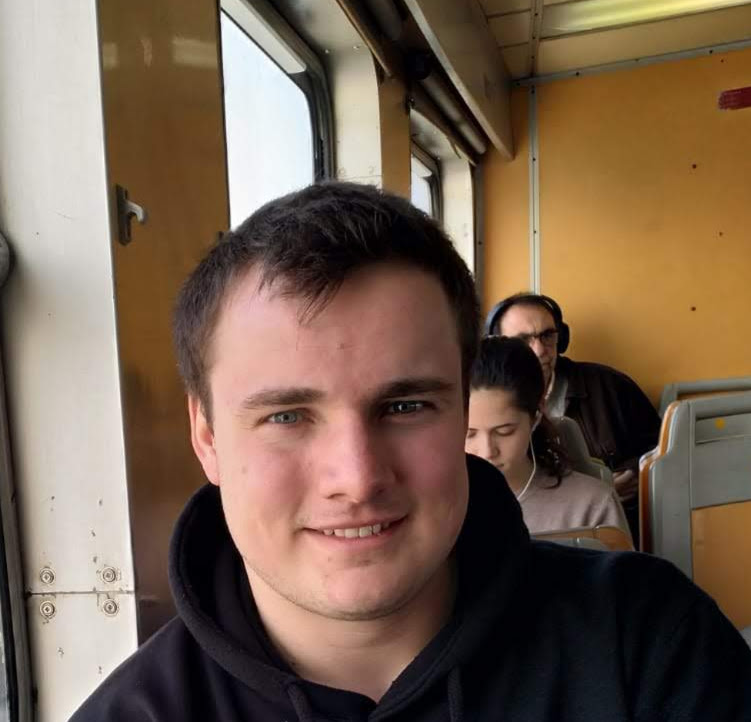
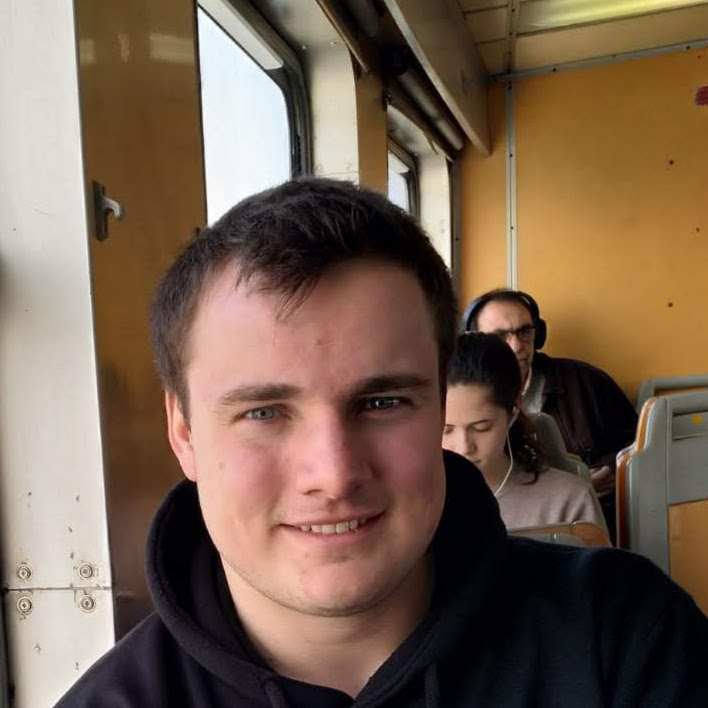
Minor fixes (#29)
* adds dylan

* update user interface section

* upload profile pics

* adds second video

* adds user testing section

diff --git a/client/src/components/pages/system/sections/user-interface/user-interface.tsx b/client/src/components/pages/system/sections/user-interface/user-interface.tsx
@@ -1,4 +1,6 @@
 import React from 'react';
+import stateColourTable from '../../../../../images/state-colour-table.png';
+import { CenteredFigure } from '../../../../atoms/centered-figure';
 
 export const UserInterfaceSection: React.FC = () => {
     return (
@@ -7,33 +9,47 @@ export const UserInterfaceSection: React.FC = () => {
             <p>
                 Creating a suitable and effective User Interface for the Omni-Opener was very important to us to ensure
                 the product is as accessible as possible. We put a focus on detailing our target user using target user
-                and medical research
+                and medical research. Our basic profile is a user who struggles to open jars but still has the ability
+                or need to open them for cooking, use, etc. The range of products this targets includes not only food
+                items but also personal care. There are a range of reasons why the user may struggle with these items,
+                including neuropathy, limited movement in the upper body, limited dexterity, and tremor. Some conditions
+                we have identified in our research are MS, old age, stroke, essential tremor (e.g. Parkinson&aspos;s),
+                and arthritis.
             </p>
             <p>
-                One of our main focuses was on detailing our target user. Our basic profile is a user who struggles to
-                open jars but still has the ability or need to open them for cooking, use, etc. The range of products
-                this targets includes not only food items but also personal care. There are a range of reasons why the
-                user may struggle with these items, including: neuropathy, limited movement in upper body, limited
-                dexterity, and tremor. Some conditions we have identified in our research are MS, old age, stroke,
-                essential tremor (e.g. Parkinson&apos;s), and arthritis.
+                In some medical research via interviewing a physiotherapist and her colleagues, we identified that there
+                are also many knock-on effects of conditions that affect dexterity and mobility, including sight issues,
+                related to e.g. stroke. We designed the Omni-Opener to have a user interface that tried to take into
+                account as many issues as we could.
             </p>
             <p>
-                One thing we discussed was the design of safety doors in the system. These will be attached within the
-                frame, with one open-able to allow the user to place the jar inside and remove it. We will implement the
-                system so that detection and opening will not begin until the door is shut, to avoid the scenario where
-                a user gets their hand caught in any gripping or moving mechanism. We discussed whether the door should
-                be implemented with a hinge or as a sliding door. We believe the hinge would be more accessible as it
-                does not require much strength, dexterity, or coordination as a sliding door might. This design also
-                minimises the states of the door and there are less risks such as the door getting stuck halfway.
+                Some of the main design decisions we have made include safety walls, a see-through push door on hinges,
+                a reset button, and an LED system-state identification system.
             </p>
             <p>
-                We also discussed including a reset button - this could be initiated by the user if something goes
-                wrong, and would be hardwired into the system. In response to some feedback from experts, we have also
-                been re-considering our decisions about system state lights. We had initially considered blue and red
-                lights to help combat colour blindness however we were informed that placing can be more important for
-                users, with a traffic light style colour scheme and layout. We have also considered adding some text to
-                explain what each light means to help this issue further.
+                The safety walls are attached within the frame, with one open-able to allow the user to place the jar
+                inside and remove it. Software has been implemented in the system so that detection and opening will not
+                begin until the door is shut, to avoid the scenario where a user gets their hand caught in any gripping
+                or moving mechanism. We discussed whether the door should be implemented with a hinge or as a sliding
+                door. We felt the hinge design is more accessible as it does not require much strength, dexterity, or
+                coordination as a sliding door might. This design also minimises the states of the door and there are
+                fewer risks such as the door getting stuck halfway.
             </p>
+            <p>
+                In the system we have also included a reset button - this can be initiated by the user if something goes
+                wrong, and is hardwired into the system. In our user guide we have detailed when this reset button is to
+                be used - in case of emergency or anything going wrong, and also generally to troubleshoot issues such
+                as the system not recognising if there is an object inside.
+            </p>
+            <p>
+                Finally, we have implemented an LED system-state identifier on the front of the system. These lights
+                have colours indicated what state the system is in and whether the user should interact with it or not.
+                We had initially considered using blue and red lights to help combat red/green colour blindness,
+                however, we were informed by our course experts that placement, and labels, can be far more useful to
+                users. As a result, we have three lights, in the main colours of red, orange, and green - like a traffic
+                light system, which is easily identifiable. The lights and what each means are detailed in this table:
+            </p>
+            <CenteredFigure src={stateColourTable} alt="State Colour Table" styles={{ width: '90%' }} />
         </>
     );
 };

diff --git a/client/src/components/pages/evaluation/sections/user-tests/user-tests.tsx b/client/src/components/pages/evaluation/sections/user-tests/user-tests.tsx
@@ -1,0 +1,65 @@
+import React from 'react';
+
+export const UserTestsSection: React.FC = () => {
+    return (
+        <>
+            <h2>User Tests</h2>
+            <p>
+                Since the target user of this product is someone that faces physical or neurological barriers to opening
+                jars and bottles, user consideration was treated as central to the user interface design at all stages.
+                Due to the nature of the project, the team were unable to directly perform user testing with the target
+                demographic, therefore creativity was required in order to ensure that the product is truly accessible
+                for the people that need it.
+            </p>
+            <p>
+                Several methods were used in order to establish and test user needs. This allowed for a layered approach
+                to user testing, roughly mimicking the user centred design framework.
+            </p>
+            <p>
+                The first stage was to discuss the requirements of the user. After brief discussion within the team, an
+                informal conversation took place between team members and medical professionals (friends of a team
+                member). Evaluation of these informal interviews aided the team in narrowing down the target user set,
+                establishing likely use cases, and directing research on conventions for similar products. Following
+                convention in accessible technology was prioritised in order to maximise consistency, allowing users to
+                learn to use the product from a familiar scenario.
+            </p>
+            <p>
+                To supplement this, a survey was designed to be distributed online. Unfortunately due to unexpected
+                circumstances, this could not be completed with users, however researching to design the questionnaire
+                raised useful discussion of potential pitfalls of the design.
+            </p>
+            <p>
+                With this information, the team was able to progress and independently research user needs. This was
+                done by consulting various medical policies and following up with the physiotherapists to check for gaps
+                in medical knowledge.
+            </p>
+            <p>
+                After this stage, the team turned to the task of evaluating frustration of the user and subsequently
+                minimising it. Due to circumstances, the team was restricted to conducting open interviews with other
+                members of the team. Luckily, since many of the team had not yet seen the traffic light design, they
+                were still able to provide authentic responses. In terms of usability goals, the team prioritised safety
+                and ease of use. Thus, simplicity of the interaction was treated to be of paramount importance
+                throughout evaluation.
+            </p>
+            <p>
+                A reset button is used to allow the user to safely return to a known state (idle) from any other state.
+                The reset button was found to have a fairly obvious meaning to users tested.
+            </p>
+            <p>
+                Traffic lights provide the main method by which users are able to clearly understand the system state
+                sufficiently to inform their actions. By speaking the user’s language, and directing the user’s
+                pre-attentive attention toward the product, this system allows an elegant method to direct the user.
+                Therefore, the evaluative task was to check that the principles of design used had successfully
+                minimised the gulf of execution and evaluation as much as possible.
+            </p>
+            <p>
+                To test this design, team members were presented with a series of traffic light diagrams as they would
+                appear on the system. The interviewee would be prompted to discuss what the light led them to think
+                about the system, and what they as the user should do next. On the whole, feedback indicated that
+                “green” led users to believe that the process was finished and it was safe to collect the jar. Similar
+                discussions and subsequent analysis were performed, leading to the team’s final decisions on traffic
+                light use.
+            </p>
+        </>
+    );
+};

diff --git a/client/src/components/pages/system/sections/competitors/competitors.tsx b/client/src/components/pages/system/sections/competitors/competitors.tsx
@@ -1,5 +1,6 @@
 import React from 'react';
 import omniAccessibility from '../../../../../images/omni-accessibility.png';
+import competitorPricing from '../../../../../images/competitor-pricing.png';
 import sixInOne from '../../../../../images/6in1.png';
 import roboTwist from '../../../../../images/robot-twist.png';
 import multiFunc from '../../../../../images/multi-func.png';
@@ -18,13 +19,17 @@ export const CompetitorsSection: React.FC = () => {
                 that we would be able to avoid as many issues they raise as possible.
             </p>
             <p>
-                In our research, we found ~15 similar products to the Omni-Opener in terms of functionality and aims.
-                There are many more variations on each but we focused on the most similar items. This ranged from small
-                rubber circles intended to reduce grip strength needed to open jars by hand, to manual multi-functional
-                helper tools, to automated jar or can openers. What we found overwhelmingly was that there are rarely
-                solutions to opening on the market currently that are both multi-functional and automated. In fact,
-                hardly any systems are automated to the extent of the Omni-Opener, regardless of functionality.
+                In our research, we found ~15 similar products to the Omni-Opener in terms of functionality and aims. We
+                populated a spreadsheet with these products, and information about them such as their price,
+                functionality, comparison rating to our product, if they were made by a for-profit or not-for-profit
+                manufacturer, their successes and their failures. A snippet of the spreadsheet can be seen here. There
+                are many more variations on each but we focused on the most similar items. This ranged from small rubber
+                circles intended to reduce grip strength needed to open jars by hand, to manual multi-functional helper
+                tools, to automated jar or can openers. What we found overwhelmingly was that there are rarely solutions
+                to opening on the market currently that are both multi-functional and automated. In fact, hardly any
+                systems are automated to the extent of the Omni-Opener, regardless of functionality.
             </p>
+            <CenteredFigure src={competitorPricing} alt="Competitor Pricing" styles={{ width: '80%' }} />
             <p>
                 We have detailed below what we felt were the three most similar solutions to the Omni-Opener: the
                 RoboTwist: an automated jar opener, a ‘6-in-1 Opener’: a multi-functional helper tool to ease the

diff --git a/client/src/components/pages/evaluation/sections/improvement/improvement.tsx b/client/src/components/pages/evaluation/sections/improvement/improvement.tsx
@@ -1,0 +1,38 @@
+import React from 'react';
+
+export const ImprovementSection: React.FC = () => {
+    return (
+        <>
+            <h2>Areas of Improvement</h2>
+
+            <h4>Reliability</h4>
+            <p>
+                As the project grew arms and legs we struggled with reliability, especially with sensors and the
+                Raspberry Pi. We repeatedly had this working one day, only for it not to work the next and be scratching
+                our heads as to why. Firstly, we had to have our Pi replaced twice due to issues which meant we lost a
+                lot of time and work on diagnosis and repairs. Also we would have issues being able to connect to the
+                motors correctly through the SMBus connection provided by the motor board. Things did improve over time
+                and we were able to develop quickly and focus on the product, however this did slow us down in the
+                beginning.
+            </p>
+
+            <h4>Complicated Assemply and Setup</h4>
+            <p>
+                As you can probably imagine the setup of the robot from individual components was quite complicated and
+                difficult to manage. It would take a long time to assemble something as well as to disassemble and
+                reassemble to add new components or to perform repairs. The opener is built with large wooden laser-cut
+                pieces, but uses a lot of small and fragile lego pieces which have to be assembled in a specific way due
+                to the design. However once we had established a good design which was strong and reliable we rarely had
+                to disassemble anything and could focus on building new sections.
+            </p>
+
+            <h4>Changes to the final design</h4>
+            <p>
+                We made some very committed decisions early on which shaped our project going forward. Chief among was
+                to use laser-cut MDF and Lego to build the bulk of the robot. This has great advantages; rapid
+                prototyping and simple design, but does lack some rigidity in the lego, especially in the gears and
+                connecting pieces.
+            </p>
+        </>
+    );
+};

diff --git a/client/src/components/organisms/group-photo/group-photo.tsx b/client/src/components/organisms/group-photo/group-photo.tsx
@@ -2,23 +2,31 @@ import React from 'react';
 import { ProfileCard } from '../../atoms/profile-card';
 import { CardGroup } from 'react-bootstrap';
 import petr from '../../../images/profile/petr.jpg';
+import dylan from '../../../images/profile/dylan.jpg';
+import jd from '../../../images/profile/jd.jpg';
+import han from '../../../images/profile/han.png';
+import bailey from '../../../images/profile/bailey.jpg';
+import adam from '../../../images/profile/adam.jpg';
+import paulis from '../../../images/profile/paulis.jpg';
+import jen from '../../../images/profile/jen.jpg';
+import robyn from '../../../images/profile/robyn.png';
 
 export const GroupPhoto: React.FC = () => {
     return (
         <>
             <CardGroup>
-                <ProfileCard name={'Jiewen Deng'} />
+                <ProfileCard name={'Jiewen Deng'} src={jd} />
                 <ProfileCard name={'Petr Vesely'} src={petr} />
-                <ProfileCard name={'Dylan Thinnes'} />
-                <ProfileCard name={'Bailey Brennan'} />
-                <ProfileCard name={'Han Fengzhi'} />
+                <ProfileCard name={'Dylan Thinnes'} src={dylan} />
+                <ProfileCard name={'Bailey Brennan'} src={bailey} />
+                <ProfileCard name={'Han Fengzhi'} src={han} />
             </CardGroup>
             <CardGroup>
-                <ProfileCard name={'Jen Logan'} />
+                <ProfileCard name={'Jen Logan'} src={jen} />
                 <ProfileCard name={'Nimrod Libman'} />
-                <ProfileCard name={'Adam Masalski'} />
-                <ProfileCard name={'Paulis Barzdins'} />
-                <ProfileCard name={'Robyn Greene'} />
+                <ProfileCard name={'Adam Masalski'} src={adam} />
+                <ProfileCard name={'Paulis Barzdins'} src={paulis} />
+                <ProfileCard name={'Robyn Greene'} src={robyn} />
             </CardGroup>
         </>
     );

diff --git a/client/src/components/pages/evaluation/sections/videos/videos.tsx b/client/src/components/pages/evaluation/sections/videos/videos.tsx
@@ -1,0 +1,27 @@
+import React from 'react';
+
+export const VideosSection: React.FC = () => {
+    return (
+        <>
+            <h2>Videos</h2>
+            <div className="text-center" style={{ display: 'flex', padding: '10px' }}>
+                <iframe
+                    width="560"
+                    height="315"
+                    src="https://www.youtube.com/embed/779Nh1gHEP4"
+                    frameBorder="0"
+                    allow="accelerometer; autoplay; encrypted-media; gyroscope; picture-in-picture"
+                    allowFullScreen
+                />
+                <iframe
+                    width="560"
+                    height="315"
+                    src="https://www.youtube.com/embed/rmhJTBzYY3U"
+                    frameBorder="0"
+                    allow="accelerometer; autoplay; encrypted-media; gyroscope; picture-in-picture"
+                    allowFullScreen
+                />
+            </div>
+        </>
+    );
+};

diff --git a/client/src/components/atoms/profile-card/profile-card.tsx b/client/src/components/atoms/profile-card/profile-card.tsx
@@ -10,11 +10,7 @@ interface Props {
 export const ProfileCard: React.FC<Props> = (props: Props) => {
     return (
         <Card>
-            <Card.Img
-                variant="top"
-                src={props.src ? props.src : defaultAvatar}
-                style={{ width: '100%', height: '75%' }}
-            />
+            <Card.Img variant="top" src={props.src ? props.src : defaultAvatar} style={{ width: '100%' }} />
             <Card.Body
                 className="text-center"
                 style={{ display: 'flex', flexDirection: 'column', justifyContent: 'flex-end' }}

diff --git a/client/src/components/pages/evaluation/evaluation.tsx b/client/src/components/pages/evaluation/evaluation.tsx
@@ -1,7 +1,17 @@
 import * as React from 'react';
+import { ImprovementSection } from './sections/improvement';
+import { VideosSection } from './sections/videos';
+import { UserTestsSection } from './sections/user-tests';
 
 const Evaluation: React.FC = () => {
-    return <h1>Evaluation</h1>;
+    return (
+        <>
+            <h1>Evaluation</h1>
+            <UserTestsSection />
+            <ImprovementSection />
+            <VideosSection />
+        </>
+    );
 };
 
 export default Evaluation;

diff --git a/client/src/components/pages/evaluation/sections/improvement/index.ts b/client/src/components/pages/evaluation/sections/improvement/index.ts
@@ -1,0 +1,1 @@
+export * from './improvement';

diff --git a/client/src/components/pages/evaluation/sections/user-tests/index.ts b/client/src/components/pages/evaluation/sections/user-tests/index.ts
@@ -1,0 +1,1 @@
+export * from './user-tests';

diff --git a/client/src/components/pages/evaluation/sections/videos/index.ts b/client/src/components/pages/evaluation/sections/videos/index.ts
@@ -1,0 +1,1 @@
+export * from './videos';
